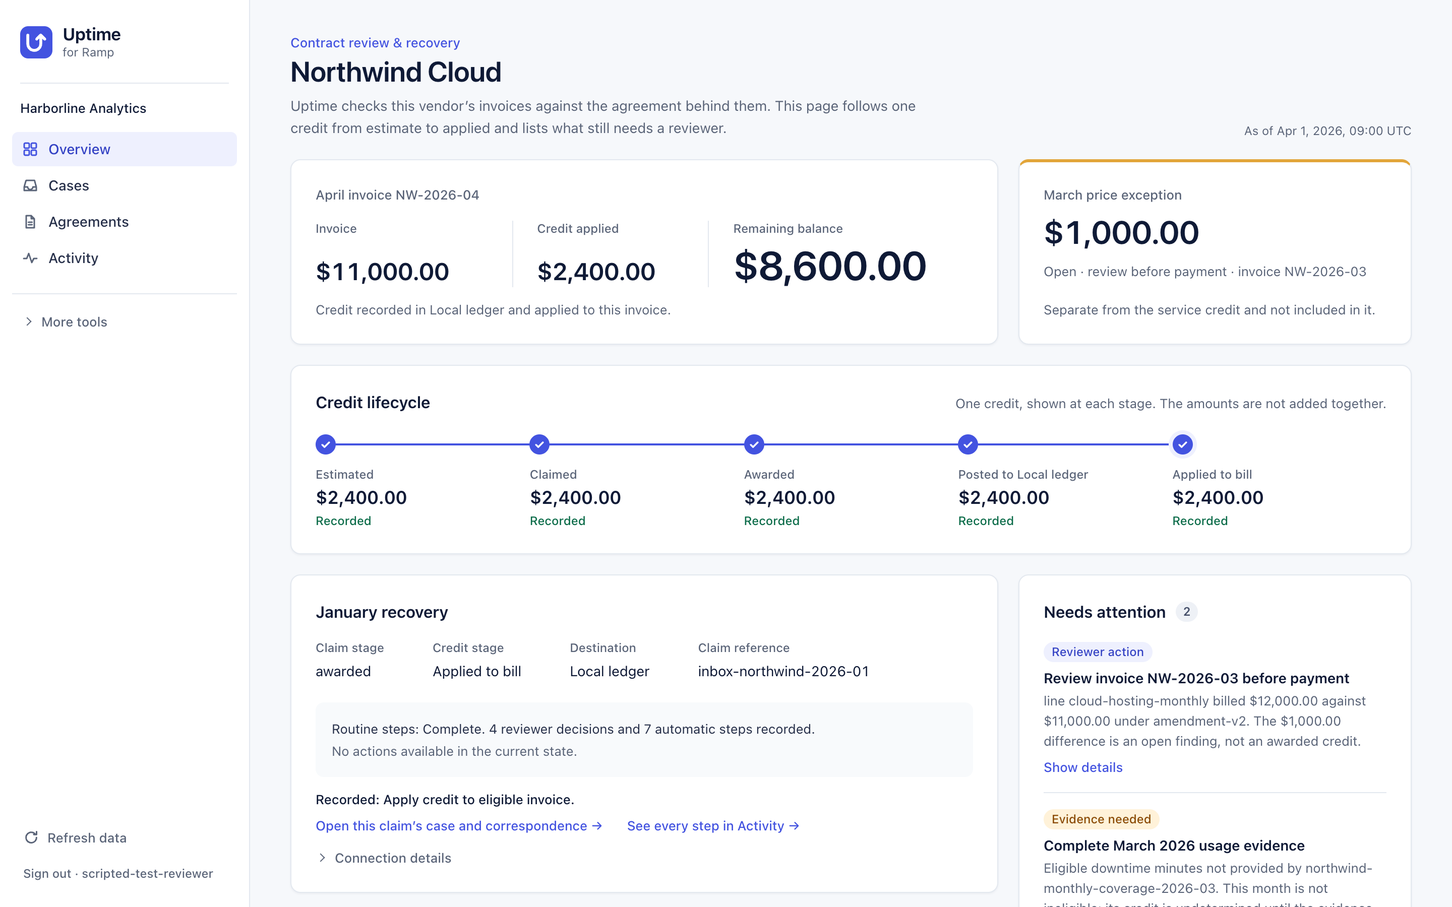
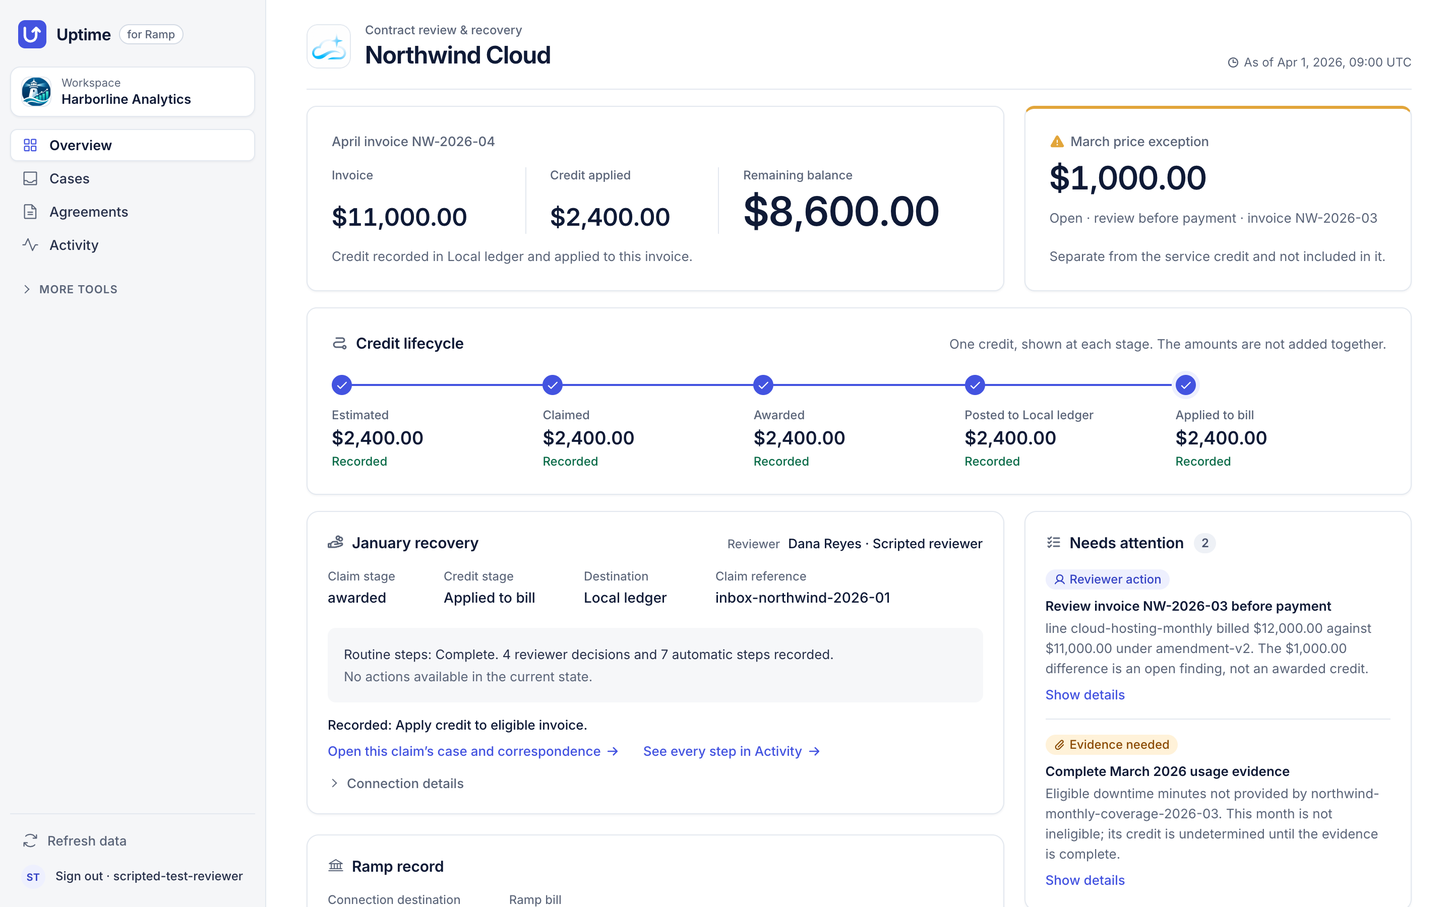
docs(presentation): retake the README screenshots on 008c4af with a one-command script; correct four stale statements
- Screenshots: overview, contract-reading and ramp-record retaken on main
  008c4af (icons, left rail, bundled typefaces, company pictures) at the
  same framing; the overview alt text now names the visible reviewer label.
  docs/v4/submission/tools/capture_readme_screenshots.py makes a retake one
  command: fresh walkthrough, a copy of the recorded workspace, one
  time-limited Chrome, the four offered decisions, a capture report.
  Two failed first attempts (unresolved /var temp path refused by Uptime)
  are recorded in presentation.md; the third captured in 10.6 s.
- Verification: link the receipts folder and the integration table rather
  than one receipt, so the sentence cannot go stale.
- Acceptance on the redesign (role 5's recheck on 008c4af, 7c6661f):
  A1 and A3 resolved, A2 partly resolved and lowered to P3; every sealed
  figure, 58/58 citations and each step's authority hold. README and judge
  guide say exactly that.
- README links the third-party notices (Phosphor icons, MIT; Inter, Source
  Serif 4, JetBrains Mono, OFL 1.1; two company pictures supplied by Ronok).
- The old-way table says the claim packet waits for a reviewer's approval.

diff --git a/docs/v4/submission/tools/capture_readme_screenshots.py b/docs/v4/submission/tools/capture_readme_screenshots.py
@@ -1,0 +1,236 @@
+#!/usr/bin/env python3
+"""Retake the README's three screenshots from the checked-out build, in one command.
+
+Run from the root of a clean checkout of the build to capture:
+
+    uv run --locked python docs/v4/submission/tools/capture_readme_screenshots.py
+
+What it does, and nothing more:
+- builds a fresh authored Northwind workspace in a temporary folder and serves it on loopback;
+- serves a *copy* of the preserved recorded onboarding workspace (never the original), so the
+  recorded Claude Opus 5.5 job can be shown; no model call can start from it, and none is made;
+- drives one headless Chrome through the ordinary sign-in form and the offered controls only:
+  the four reviewer decisions, Activity, Agreements and Ramp records;
+- writes overview.png, contract-reading.png and ramp-record.png (1440x900 viewport at 2x) and
+  a report (by default docs/v4/evidence/submission-presentation-20261109/readme-capture-report.json)
+  holding the commit, the decisions and the visible text used to check each alt text;
+- stops both servers and deletes the temporary folder.
+
+It never contacts Ramp, never signs in anywhere but the local workspaces it served, and adds
+nothing to the page except what a person's clicks would. Every browser step and the whole run
+have hard time limits: a stalled Chrome is reported as a stall, not retried.
+"""
+import argparse
+import json
+import os
+import shutil
+import signal
+import socket
+import subprocess
+import sys
+import tempfile
+import time
+from pathlib import Path
+
+ROOT = Path.cwd()
+RECORDED = Path.home() / ".local/share/uptime-engineering/tasks/submission-onboarding-20261109/recorded-workspace"
+BILL = "f74ba12c-95d0-582d-9f62-26d8057d1d37"
+SETTLED = ("prev => { const b = document.querySelector('#finance-recovery .actions button:not([disabled])');"
+           " const s = document.querySelector('#finance-recovery [role=status]');"
+           " return (!b || b.innerText.trim() !== prev) && !(s && /Recording/.test(s.textContent)); }")
+SIGNED_IN = ("() => !Array.from(document.querySelectorAll('label')).some(l => /Credential file/.test(l.innerText))"
+             " && (document.querySelector('main')?.innerText.length || 0) > 200")
+
+
+def free(port):
+    with socket.socket() as s:
+        return s.connect_ex(("127.0.0.1", port)) != 0
+
+
+def wait_listening(port, seconds=120):
+    deadline = time.monotonic() + seconds
+    while time.monotonic() < deadline:
+        if not free(port):
+            return
+        time.sleep(0.25)
+    raise RuntimeError(f"nothing listened on {port} within {seconds} s")
+
+
+def start(args, log):
+    return subprocess.Popen(args, cwd=ROOT, stdout=log, stderr=subprocess.STDOUT, start_new_session=True)
+
+
+def stop(proc):
+    if proc and proc.poll() is None:
+        os.killpg(proc.pid, signal.SIGINT)
+        try:
+            proc.wait(timeout=15)
+        except subprocess.TimeoutExpired:
+            os.killpg(proc.pid, signal.SIGKILL)
+
+
+def copy_recorded(source, target):
+    shutil.copytree(source, target, symlinks=False)
+    os.chmod(target, 0o700)
+    config = json.loads((target / "protected/config.json").read_text())
+    config["approvals_path"] = str(target / "protected/approvals.json")
+    view = target / "protected/view-config.json"
+    if view.exists():
+        view.unlink()
+    fd = os.open(view, os.O_CREAT | os.O_EXCL | os.O_WRONLY, 0o600)
+    os.write(fd, json.dumps(config).encode())
+    os.close(fd)
+    return view
+
+
+def sign_in(page, origin, account, credential):
+    page.goto(origin + "/")
+    page.wait_for_selector("form")
+    page.get_by_label("Account name", exact=True).fill(account)
+    page.get_by_label("Credential file", exact=True).set_input_files(str(credential))
+    page.get_by_role("button", name="Sign in", exact=True).click()
+    page.wait_for_function(SIGNED_IN)
+
+
+def scroll_to_text(page, pattern):
+    return page.evaluate("""p => { const re = new RegExp(p);
+        const n = Array.from(document.querySelectorAll('main h1, main h2, main h3, main h4, main dt, main strong'))
+          .find(x => re.test(x.textContent));
+        if (n) { n.scrollIntoView({block: 'start'}); window.scrollBy(0, -16); }
+        return n ? n.textContent.trim() : null; }""", pattern)
+
+
+def visible_text(page):
+    return page.evaluate("""() => { const out = []; const h = window.innerHeight;
+        const walker = document.createTreeWalker(document.querySelector('main') || document.body, NodeFilter.SHOW_TEXT);
+        let n; while ((n = walker.nextNode())) { const t = n.textContent.trim(); if (!t) continue;
+          const el = n.parentElement; if (!el || el.closest('details:not([open]) > :not(summary)')) continue;
+          const r = el.getBoundingClientRect(); if (r.bottom > 0 && r.top < h && r.width > 0) out.push(t); }
+        return out.join(' | ').slice(0, 4000); }""")
+
+
+def capture(out, walk_origin, walk_credential, contract_origin, contract_credential, report):
+    from playwright.sync_api import sync_playwright
+    with sync_playwright() as pw:
+        browser = pw.chromium.launch(channel="chrome", headless=True, timeout=30000)
+        try:
+            context = browser.new_context(viewport={"width": 1440, "height": 900}, device_scale_factor=2)
+            page = context.new_page()
+            page.set_default_timeout(30000)
+            errors = []
+            page.on("pageerror", lambda e: errors.append(str(e)[:200]))
+
+            sign_in(page, walk_origin, "scripted-test-reviewer", walk_credential)
+            page.wait_for_selector("#finance-recovery")
+            decisions = []
+            for _ in range(8):
+                buttons = page.locator("#finance-recovery .actions button:not([disabled])")
+                if buttons.count() == 0:
+                    break
+                label = buttons.first.inner_text().strip()
+                t = time.monotonic()
+                buttons.first.click()
+                page.wait_for_function(SETTLED, arg=label)
+                decisions.append({"clicked": label, "seconds": round(time.monotonic() - t, 2)})
+                page.wait_for_timeout(300)
+            report["decisions"] = decisions
+            page.evaluate("() => { document.activeElement && document.activeElement.blur(); window.scrollTo(0, 0); }")
+            page.wait_for_timeout(500)
+            page.screenshot(path=str(out / "overview.png"), full_page=False)
+            report["overview_visible"] = visible_text(page)
+
+            page.evaluate("() => { location.hash = '#records'; }")
+            page.wait_for_function("() => /DocuSign/.test(document.querySelector('main')?.innerText || '')")
+            report["ramp_heading"] = scroll_to_text(page, "^Verified Ramp record")
+            page.wait_for_timeout(500)
+            page.screenshot(path=str(out / "ramp-record.png"), full_page=False)
+            report["ramp_visible"] = visible_text(page)
+            report["walkthrough_page_errors"] = errors
+            context.close()
+
+            context = browser.new_context(viewport={"width": 1440, "height": 900}, device_scale_factor=2)
+            page = context.new_page()
+            page.set_default_timeout(30000)
+            sign_in(page, contract_origin, "role1-operator", contract_credential)
+            page.evaluate("() => { location.hash = '#agreements'; }")
+            page.wait_for_function("() => /26ee4e3f/.test(document.querySelector('main')?.innerText || '')")
+            report["contract_heading"] = scroll_to_text(page, "^Model proposal job")
+            page.wait_for_timeout(500)
+            page.screenshot(path=str(out / "contract-reading.png"), full_page=False)
+            report["contract_visible"] = visible_text(page)
+            context.close()
+        finally:
+            browser.close()
+
+
+def main():
+    parser = argparse.ArgumentParser(description=__doc__, formatter_class=argparse.RawDescriptionHelpFormatter)
+    parser.add_argument("--out", type=Path, default=ROOT / "docs/assets/submission")
+    parser.add_argument("--report", type=Path, default=ROOT / "docs/v4/evidence/submission-presentation-20261109/readme-capture-report.json")
+    parser.add_argument("--recorded-workspace", type=Path, default=RECORDED)
+    parser.add_argument("--walk-port", type=int, default=8865)
+    parser.add_argument("--contract-port", type=int, default=8866)
+    parser.add_argument("--limit-seconds", type=int, default=420)
+    args = parser.parse_args()
+    if not (ROOT / "scripts/setup_northwind.py").is_file():
+        parser.error("run this from the root of an Uptime checkout")
+    if not (args.recorded_workspace / "workspace.sqlite").is_file():
+        parser.error(f"recorded workspace not found: {args.recorded_workspace}")
+    for port in (args.walk_port, args.contract_port):
+        if not free(port):
+            parser.error(f"port {port} is in use; choose another with --walk-port/--contract-port")
+
+    signal.signal(signal.SIGALRM, lambda *_: (_ for _ in ()).throw(TimeoutError("capture exceeded its time limit")))
+    signal.alarm(args.limit_seconds)
+    commit = subprocess.run(["git", "rev-parse", "HEAD"], cwd=ROOT, capture_output=True, text=True).stdout.strip()
+    dirty = subprocess.run(["git", "status", "--porcelain", "--untracked-files=no"], cwd=ROOT, capture_output=True, text=True).stdout.strip()
+    report = {"commit": commit, "tracked_changes": bool(dirty), "started": time.strftime("%Y-%m-%dT%H:%M:%SZ", time.gmtime())}
+    args.out.mkdir(parents=True, exist_ok=True)
+    # Resolved: Uptime refuses credential and config paths that pass through a symlink (macOS /var -> /private/var).
+    work = Path(tempfile.mkdtemp(prefix="uptime-readme-shots-")).resolve()
+    phases = report["phases"] = {}
+    t0 = time.monotonic()
+    mark = lambda name: phases.__setitem__(name, round(time.monotonic() - t0, 1))
+    walk = contract = None
+    try:
+        walk_origin = f"http://127.0.0.1:{args.walk_port}"
+        contract_origin = f"http://127.0.0.1:{args.contract_port}"
+        walk_log = open(work / "walk.log", "w")
+        walk = start([sys.executable, "scripts/setup_northwind.py", "--directory", str(work / "take"),
+                      "--origin", walk_origin, "--serve"], walk_log)
+        recorded = work / "recorded-contract"
+        view = copy_recorded(args.recorded_workspace, recorded)
+        contract_log = open(work / "contract.log", "w")
+        contract = start([sys.executable, "scripts/serve.py", "--db", str(recorded / "workspace.sqlite"), "--mode", "replay",
+                          "--tenant", "submission-onboarding", "--port", str(args.contract_port),
+                          "--public-proposal-config", str(view)], contract_log)
+        mark("servers started")
+        wait_listening(args.walk_port)
+        mark("walkthrough listening")
+        wait_listening(args.contract_port)
+        mark("recorded contract listening")
+        capture(args.out, walk_origin, work / "take/scripted-reviewer.jwk",
+                contract_origin, recorded / "role1-operator.jwk", report)
+        mark("captured")
+        report["result"] = "captured"
+    except Exception as error:  # report, never retry
+        report["result"] = f"failed: {type(error).__name__}: {str(error).splitlines()[0][:300]}"
+        for name in ("walk.log", "contract.log"):
+            log = work / name
+            if log.exists():
+                report[name + "_tail"] = [l for l in log.read_text(errors="replace").splitlines()
+                                          if "eprecat" not in l and "starlette" not in l][-12:]
+    finally:
+        signal.alarm(0)
+        stop(walk)
+        stop(contract)
+        shutil.rmtree(work, ignore_errors=True)
+        report["finished"] = time.strftime("%Y-%m-%dT%H:%M:%SZ", time.gmtime())
+        args.report.parent.mkdir(parents=True, exist_ok=True)
+        args.report.write_text(json.dumps(report, indent=1, ensure_ascii=False) + "\n")
+    print(json.dumps({k: report.get(k) for k in ("commit", "tracked_changes", "result", "decisions")}, indent=1))
+    return 0 if report["result"] == "captured" else 1
+
+
+if __name__ == "__main__":
+    sys.exit(main())

diff --git a/README.md b/README.md
@@ -15,7 +15,7 @@ Built for the **Berkeley BBS × Ramp Hackathon: Automate the Old Way**.
 <!-- VIDEO: add the two-minute film link here only once the recording exists. -->
 
 <p align="center">
-  <img src="docs/assets/submission/overview.png" alt="Uptime Overview for the authored Northwind Cloud agreement after the four reviewer decisions: April invoice NW-2026-04, invoice $11,000.00, credit applied $2,400.00, remaining balance $8,600.00, credit recorded in Local ledger; the separate open March price exception of $1,000.00, not included in the credit; the credit lifecycle showing one $2,400.00 credit at each stage, not added together; 4 reviewer decisions and 7 automatic steps recorded." width="100%">
+  <img src="docs/assets/submission/overview.png" alt="Uptime Overview for the authored Northwind Cloud agreement after the four reviewer decisions: April invoice NW-2026-04, invoice $11,000.00, credit applied $2,400.00, remaining balance $8,600.00, credit recorded in Local ledger; the separate open March price exception of $1,000.00, not included in the credit; the credit lifecycle showing one $2,400.00 credit at each stage, not added together; the January recovery card naming the reviewer as Dana Reyes, Scripted reviewer, with 4 reviewer decisions and 7 automatic steps recorded." width="100%">
 </p>
 
 ## The old way
@@ -26,7 +26,7 @@ A service credit is rarely automatic. Under [Twilio's API SLA](https://www.twili
 |:---|:---|:---|
 | **Know what you are owed** | Reread the SLA, the order form and every amendment. | Terms become typed rules, each linked to its clause. |
 | **Prove it** | Total the downtime in a spreadsheet. | Evidence is matched to the service month. Missing evidence gives "needs evidence", never a guess. |
-| **Claim it in time** | Remember the window, write the ticket. | The deadline is tracked; the claim packet waits for a person's approval. |
+| **Claim it in time** | Remember the window, write the ticket. | The deadline is tracked; the claim packet waits for a reviewer's approval. |
 | **Handle the reply** | Hunt for whatever the vendor asks for. | A request in wording the rules know is answered with evidence that arrives through a signed source and is matched to it. Other wording goes to a reviewer. |
 | **Confirm the money** | Hope the next invoice is lower. | Claimed, awarded, posted and applied are separate stages of one credit, applied once. |
 
@@ -129,7 +129,7 @@ What has reached Ramp is one evidence-gap note on sandbox bill `f74ba12c-95d0-58
 
 ## Verification
 
-The badge above runs the full check suite on every push to `main`. The full run on `main`'s current application code is recorded with its exact commit, command and log in [this receipt](docs/v4/evidence/submission-20261109/suite-1fa4ab4.json). These are regression results, not a measure of model accuracy or production readiness. An independent acceptance run checked the earlier frozen build `52f1a2f` from a fresh clone, following only these published instructions; its results, limits and ranked findings are in [the acceptance report](docs/v4/submission/acceptance.md) ([summary](docs/JUDGES.md#independent-acceptance)). It then checked the redesigned interface on `main` at `08852a6` from an anonymous default clone: the same figures, citations and step authorities held, and its addendum lists three further findings.
+The badge above runs the full check suite on every push to `main`. Every full run on `main` is kept with its exact commit, command and log in [the receipts folder](docs/v4/evidence/submission-20261109/), including failed and aborted runs, and listed in [the integration table](docs/v4/submission/COORDINATION.md#integration-and-suites). These are regression results, not a measure of model accuracy or production readiness. An independent acceptance run checked the earlier frozen build `52f1a2f` from a fresh clone, following only these published instructions; its results, limits and ranked findings are in [the acceptance report](docs/v4/submission/acceptance.md) ([summary](docs/JUDGES.md#independent-acceptance)). It then checked the redesigned interface on `main` from an anonymous default clone, at `08852a6` and again at `008c4af`. Every sealed figure, all 58 citations and each step's authority hold on `008c4af`. Of its three findings on the redesign, two are resolved: the routine-steps line now says a reviewer approves, and the Overview names "Dana Reyes · Scripted reviewer" with nothing opened. The third is partly resolved and lowered to P3: the case page's record section now says it does not track posting or application, but a second closed section, "Complete server case record", still prints "Posted USD 0.00" and "Applied USD 0.00" as the server sends them.
 
 ```sh
 uv run --locked pytest
@@ -146,4 +146,5 @@ Everything below is engineering history: how the product was built, tested and d
 - [Current status](docs/v4/STATUS.md) · [Capability matrix](docs/v4/CAPABILITIES.md) · [Decision records](docs/v4/decisions/INDEX.md) · [Use cases and sources](docs/product/USE-CASES.md)
 - [Independent evaluation results](docs/v4/evaluation-finish-20261109/RESULTS.md) · [Remediation pass](docs/v4/FINISH-20261109.md) · [First public baseline](docs/v4/evaluation76/BASELINE.md)
 - Connected Ramp worklist: `./Open\ Uptime.command` on macOS, with the [operator guide](docs/v4/OPERATIONS.md) and [connection guide](docs/v4/RAMP-DEMO-CONNECTION.md). These are local development services, not a public deployment.
+- [Third-party notices](docs/v4/submission/THIRD-PARTY-NOTICES.md): the interface bundles Phosphor icons (MIT), three typefaces (Inter, Source Serif 4 and JetBrains Mono; SIL Open Font License 1.1) and two company pictures supplied by Ronok.
 - [Contribution workflow](CONTRIBUTING.md) · [Original specification](docs/uptime-v3/Uptime_V3_Product_Technical_Spec.md)

diff --git a/docs/v4/submission/presentation.md b/docs/v4/submission/presentation.md
@@ -183,10 +183,31 @@ Full answers are in [the judge guide](../../JUDGES.md#five-questions-answered).
 
 ## Screenshots
 
-**In the README, from `main` (`0c30f8f`):** 2880×1800, a 1440 px viewport at 2x, taken through the ordinary sign-in and offered controls.
-- [overview.png](../../assets/submission/overview.png): Overview after the four decisions, take 2. April $11,000.00 → $8,600.00; the March $1,000.00 exception "not included in it"; the lifecycle; "4 reviewer decisions and 7 automatic steps recorded".
-- [contract-reading.png](../../assets/submission/contract-reading.png): Agreements, "Model proposal job" `26ee4e3f`, claude-opus-5-5, "unreviewed and not approved", each term beside its exact sentence.
-- [ramp-record.png](../../assets/submission/ramp-record.png): More tools → Ramp records, "Verified Ramp record": DocuSign, DD-PREAPPROVAL, USD 840, read time "started by a person", evidence gap, the person's note and "Uptime has made no write to Ramp". The worklist below it has its rows closed.
+**In the README, from `main` at `008c4af`** (retaken November 10; the earlier set was from `0c30f8f`): 2880×1800, a 1440 px viewport at 2x, through the ordinary sign-in and offered controls.
+- [overview.png](../../assets/submission/overview.png): Overview after the four decisions. April $11,000.00 → $8,600.00; the March $1,000.00 exception "not included in it"; the lifecycle; the January recovery card with "Reviewer · Dana Reyes · Scripted reviewer" and "4 reviewer decisions and 7 automatic steps recorded".
+- [contract-reading.png](../../assets/submission/contract-reading.png): Agreements, "Model proposal job" `26ee4e3f`, claude-opus-5-5, "unreviewed and not approved", each term beside its exact sentence (quoted text now in Source Serif 4).
+- [ramp-record.png](../../assets/submission/ramp-record.png): More tools → Ramp records, "Verified Ramp record": DocuSign, DD-PREAPPROVAL, USD 840, read time "started by a person", evidence gap, the person's note and "Uptime has made no write to Ramp". The worklist below it keeps its rows closed.
+
+**Retake in one command** from the root of a clean checkout of the build to capture:
+
+```bash
+uv run --locked python docs/v4/submission/tools/capture_readme_screenshots.py
+```
+
+The script:
+- builds a fresh authored Northwind workspace in a temporary folder and serves it on 8865;
+- serves a copy of the preserved recorded onboarding workspace on 8866, never the original, with no model call possible;
+- drives one headless Chrome through the sign-in and the four offered decisions;
+- overwrites the three images;
+- writes [readme-capture-report.json](../evidence/submission-presentation-20261109/readme-capture-report.json), with the commit, the decisions and the visible text used to check each alt text;
+- stops both servers and deletes the folder.
+
+It refuses a busy port (choose others with `--walk-port` and `--contract-port`) and stops at `--limit-seconds` (default 420). A stalled browser is reported, never retried. After a retake, compare each image with its alt text in `README.md` before committing.
+
+**First run on `008c4af`:**
+- **Failed, kept as found:** two attempts. The script used an unresolved macOS temporary path (`/var` → `/private/var`), which Uptime correctly refuses for credential and config files, so both servers exited at start.
+- **The fix:** the script now resolves that path.
+- **The third attempt:** captured in 10.6 s; the decisions took 0.30–0.50 s.
 
 **Side-panel evidence, not in the README** ([folder](../evidence/submission-presentation-20261109/side-panel-0c30f8f/)): the panel page at 420 px and three frames from the real-extension check, with Ramp stubbed locally.
 

diff --git a/docs/JUDGES.md b/docs/JUDGES.md
@@ -62,11 +62,11 @@ A separate session checked the earlier frozen build `52f1a2f` (before the interf
 - **The model work** was verified from its receipts. It is recorded, not live.
 - **Not shown:** generalization. The independent cohort reached shadow on 0 of 4 contracts.
 - **Ramp:** nothing reaches Ramp from Uptime.
-- **The redesigned interface:** checked afterwards on `main` at `08852a6`, from an anonymous default clone with no extra step. Every sealed figure, all 58 citations and each step's authority still hold. Three further findings are open: a status line that says a person approves where the account is scripted, a case's own record that shows zeros for posted and applied, and the scripted reviewer's display name being visible only inside closed sections of the Overview.
+- **The redesigned interface:** checked afterwards on `main` from an anonymous default clone with no extra step, at `08852a6` and again at `008c4af`. Every sealed figure, all 58 citations and each step's authority hold on `008c4af`. Of its three findings on the redesign, two are resolved: the routine-steps line now says a reviewer approves, and the Overview names "Dana Reyes · Scripted reviewer" with nothing opened. The third is partly resolved and lowered to P3: the case page's record section now says it does not track posting or application, but a second closed section, "Complete server case record", still prints "Posted USD 0.00" and "Applied USD 0.00" as the server sends them.
 
-The [acceptance report](v4/submission/acceptance.md) has the evidence, the controls and its five ranked findings ("Bugs and risks, ranked by consequence"), and ends with the addendum on the redesigned interface and its three.
+The [acceptance report](v4/submission/acceptance.md) has the evidence, the controls and its five ranked findings ("Bugs and risks, ranked by consequence"). It ends with two addenda on the redesigned interface: its three findings, and their recheck on `008c4af`.
 
 ## Evidence index
 
-- [Capability matrix](v4/CAPABILITIES.md) · [Independent evaluation results](v4/evaluation-finish-20261109/RESULTS.md) · [Full test receipt for main](v4/evidence/submission-20261109/suite-1fa4ab4.json) · [for the frozen build `52f1a2f`](v4/evidence/submission-20261109/suite-52f1a2f.json)
+- [Capability matrix](v4/CAPABILITIES.md) · [Independent evaluation results](v4/evaluation-finish-20261109/RESULTS.md) · [Full test receipts](v4/evidence/submission-20261109/) ([listed by commit](v4/submission/COORDINATION.md#integration-and-suites)) · [for the frozen build `52f1a2f`](v4/evidence/submission-20261109/suite-52f1a2f.json)
 - [Presentation storyboard and script](v4/submission/presentation.md) · [Engineering map](ENGINEERING-MAP.md) · [Decision records](v4/decisions/INDEX.md)
